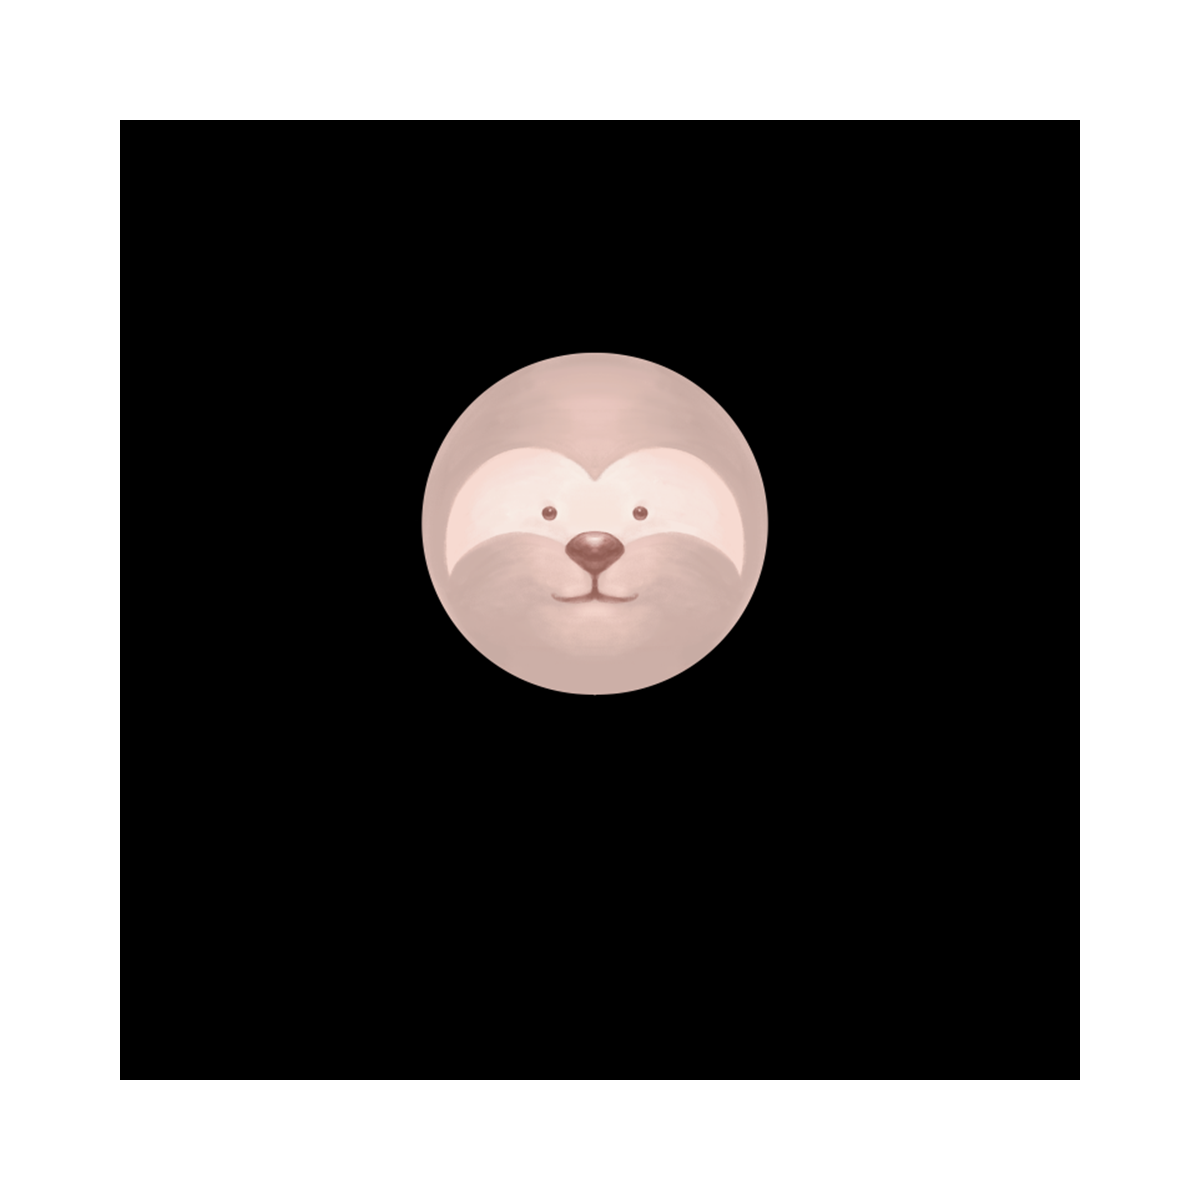
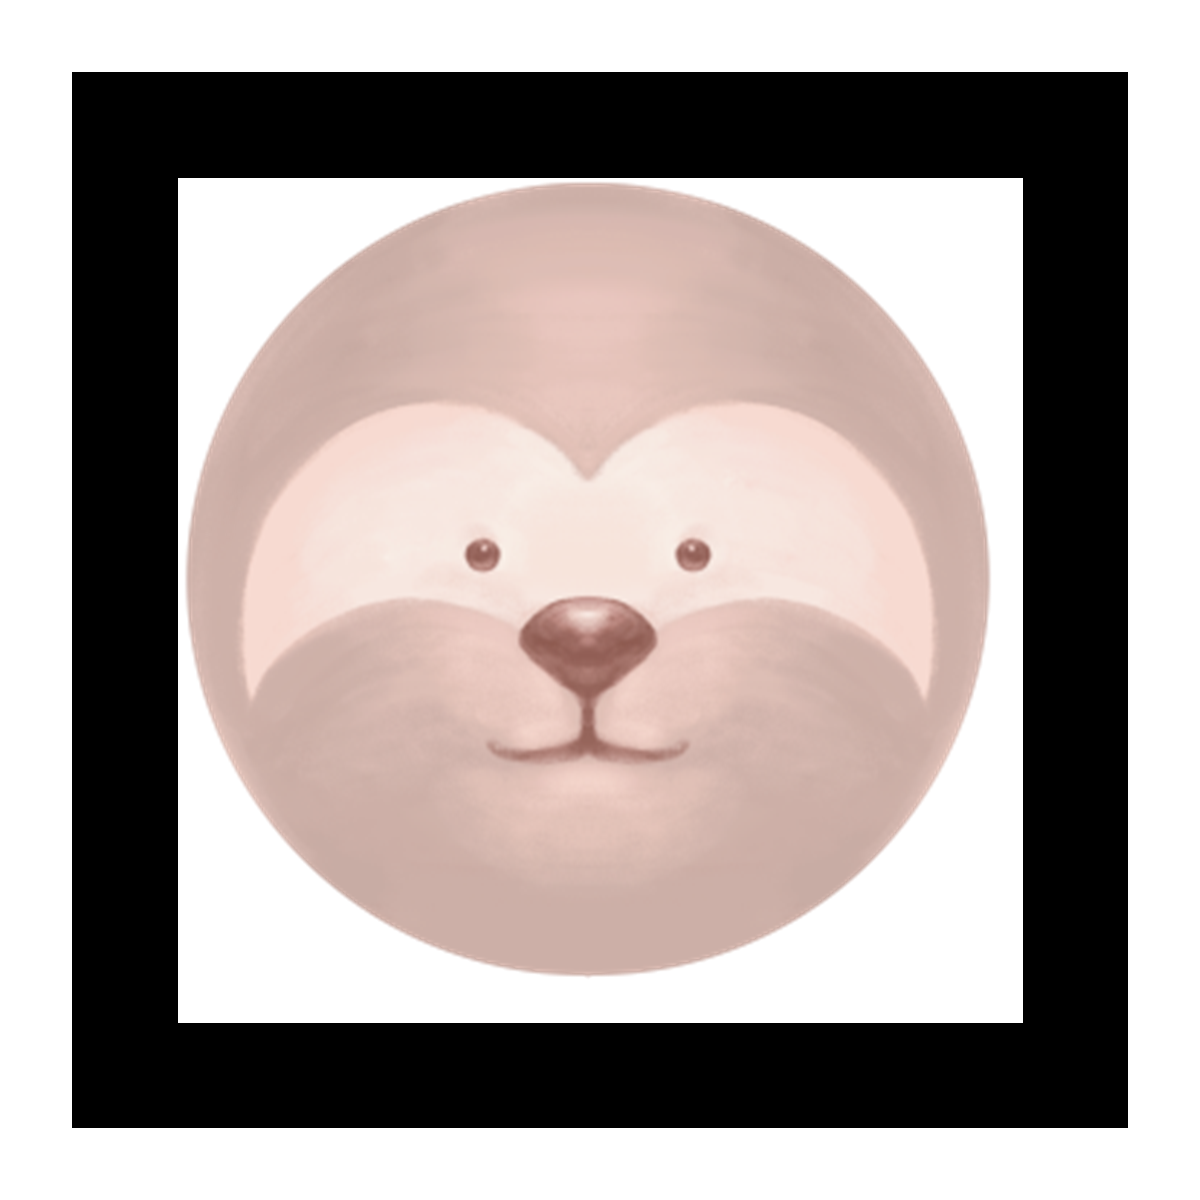
Refine custom marker frame

diff --git a/index.html b/index.html
@@ -92,7 +92,7 @@
     <div class="foreground-terrain"></div>
     <svg class="terrain-mask" viewBox="0 0 1600 900" preserveAspectRatio="xMidYMid meet" aria-hidden="true"><defs><clipPath id="terrain-shape"><path d="M0 418 L30 486 L60 512 L100 535 L130 520 L160 540 L200 575 L250 640 L290 670 L340 655 L390 600 L420 535 L450 625 L500 660 L570 680 L620 675 L680 690 L740 686 L800 703 L870 702 L930 685 L1000 684 L1070 688 L1140 670 L1200 645 L1280 640 L1350 655 L1410 675 L1450 678 L1500 652 L1530 620 L1560 650 L1600 645 L1600 900 L0 900 Z"/></clipPath></defs><image href="assets/night-sky.png" x="0" y="0" width="1600" height="900" preserveAspectRatio="xMidYMid slice" clip-path="url(#terrain-shape)"/></svg>
   </div>
-  <a-scene embedded arjs="trackingMethod: best; sourceType: webcam; debugUIEnabled: false; detectionMode: mono_and_matrix; matrixCodeType: 3x3; patternRatio: 0.65" renderer="alpha:true" vr-mode-ui="enabled:false"><a-marker type="pattern" url="assets/ar-marker.patt" id="marker" emitevents="true" meteor-trigger><a-entity></a-entity></a-marker><a-entity camera></a-entity></a-scene>
+  <a-scene embedded arjs="trackingMethod: best; sourceType: webcam; debugUIEnabled: false; detectionMode: mono_and_matrix; matrixCodeType: 3x3; patternRatio: 0.80" renderer="alpha:true" vr-mode-ui="enabled:false"><a-marker type="pattern" url="assets/ar-marker.patt" id="marker" emitevents="true" meteor-trigger><a-entity></a-entity></a-marker><a-entity camera></a-entity></a-scene>
   <script>
     const m=document.querySelector('#meteor');const streaks=[...document.querySelectorAll('.streak')];const artwork=document.querySelector('.artwork');const terrainCutout=new Image();terrainCutout.className='terrain-cutout';terrainCutout.src='assets/terrain-cutout.png';terrainCutout.alt='';artwork.append(terrainCutout);let last=0;
     const glow=()=> 'none';
